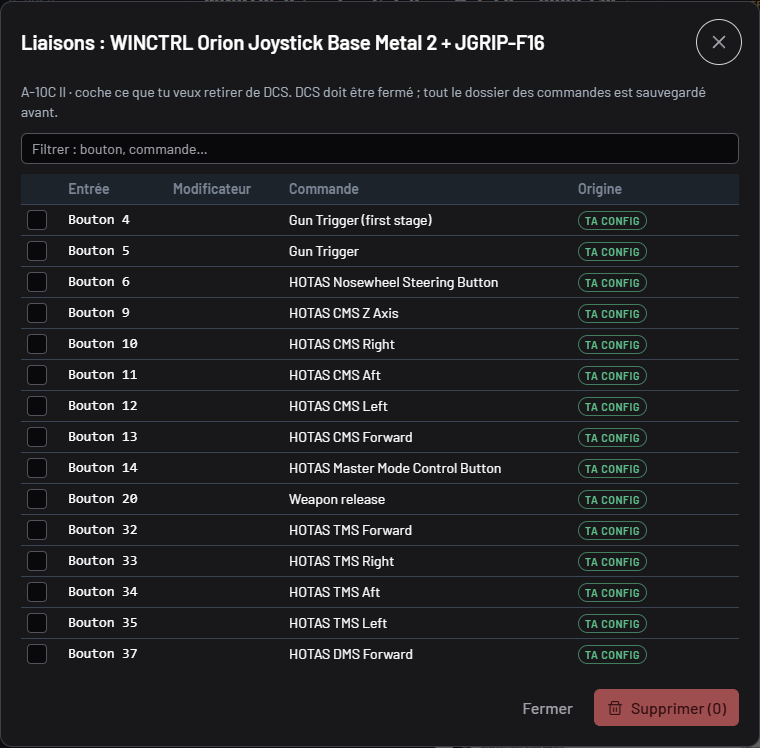
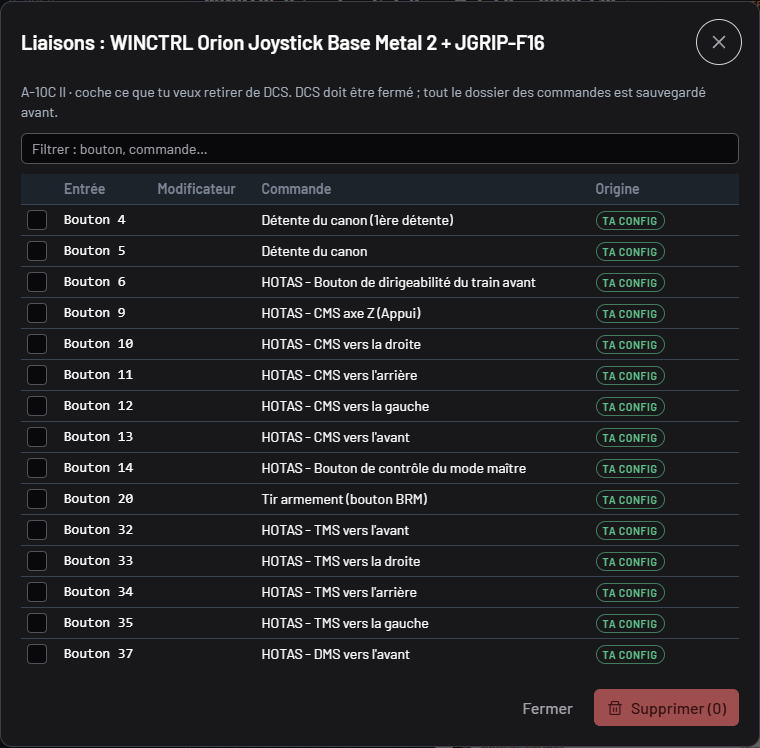
docs: screenshots of the English interface; French ones retaken
The French ones show the new interface language setting, and the commands
in French as the interface. Fixes a space Vue dropped at the start of three
conditional texts ("TEMPLATEAUTO", "files(currently", "starts(log").

Refs #63

diff --git a/web/src/components/SettingsDialog.vue b/web/src/components/SettingsDialog.vue
@@ -128,7 +128,7 @@ async function save() {
       <label class="field" for="language">
         <span class="eyebrow">{{ t('settings.language.label') }}</span>
         <Select input-id="language" v-model="language" :options="languages" option-label="label" option-value="value" />
-        <small><Tr k="settings.language.hint"><template #l10n><code>l10n</code></template></Tr><template v-if="state.dcs"> {{ t('settings.language.current', { language: state.dcs.language }) }}</template>.</small>
+        <small><Tr k="settings.language.hint"><template #l10n><code>l10n</code></template></Tr><template v-if="state.dcs">{{ ' ' + t('settings.language.current', { language: state.dcs.language }) }}</template>.</small>
       </label>
       <label class="field" for="page-height">
         <span class="eyebrow">{{ t('settings.page_height.label') }}</span>

diff --git a/web/src/components/PagePreview.vue b/web/src/components/PagePreview.vue
@@ -231,7 +231,7 @@ watch(
       <div v-if="store.device.value" class="controls">
         <label class="ctl">
           <span class="eyebrow">
-            {{ t('preview.template.label') }}<template v-if="automatic && templateId !== NO_TEMPLATE"> {{ t('preview.template.auto') }}</template>
+            {{ t('preview.template.label') }}<template v-if="automatic && templateId !== NO_TEMPLATE">{{ ' ' + t('preview.template.auto') }}</template>
             <button v-if="manualHint" type="button" class="pill warn manual" v-tooltip.bottom="manualHint" @click="selection = AUTOMATIC">
               {{ t('preview.template.manual') }}
             </button>

diff --git a/web/src/components/DcsConfigDialog.vue b/web/src/components/DcsConfigDialog.vue
@@ -428,7 +428,7 @@ async function restore(id: string) {
         <p v-if="!devices.seen.length" class="intro">{{ t('dcs.absent.no_log') }}</p>
         <template v-else>
           <p class="intro">
-            {{ t('dcs.absent.intro') }}<template v-if="devices.log_date"> {{ t('dcs.absent.log_date', { date: date(devices.log_date) }) }}</template>.
+            {{ t('dcs.absent.intro') }}<template v-if="devices.log_date">{{ ' ' + t('dcs.absent.log_date', { date: date(devices.log_date) }) }}</template>.
             {{ t('dcs.absent.intro2') }}
           </p>
           <ul v-if="devices.absent.length" class="rows devices">
